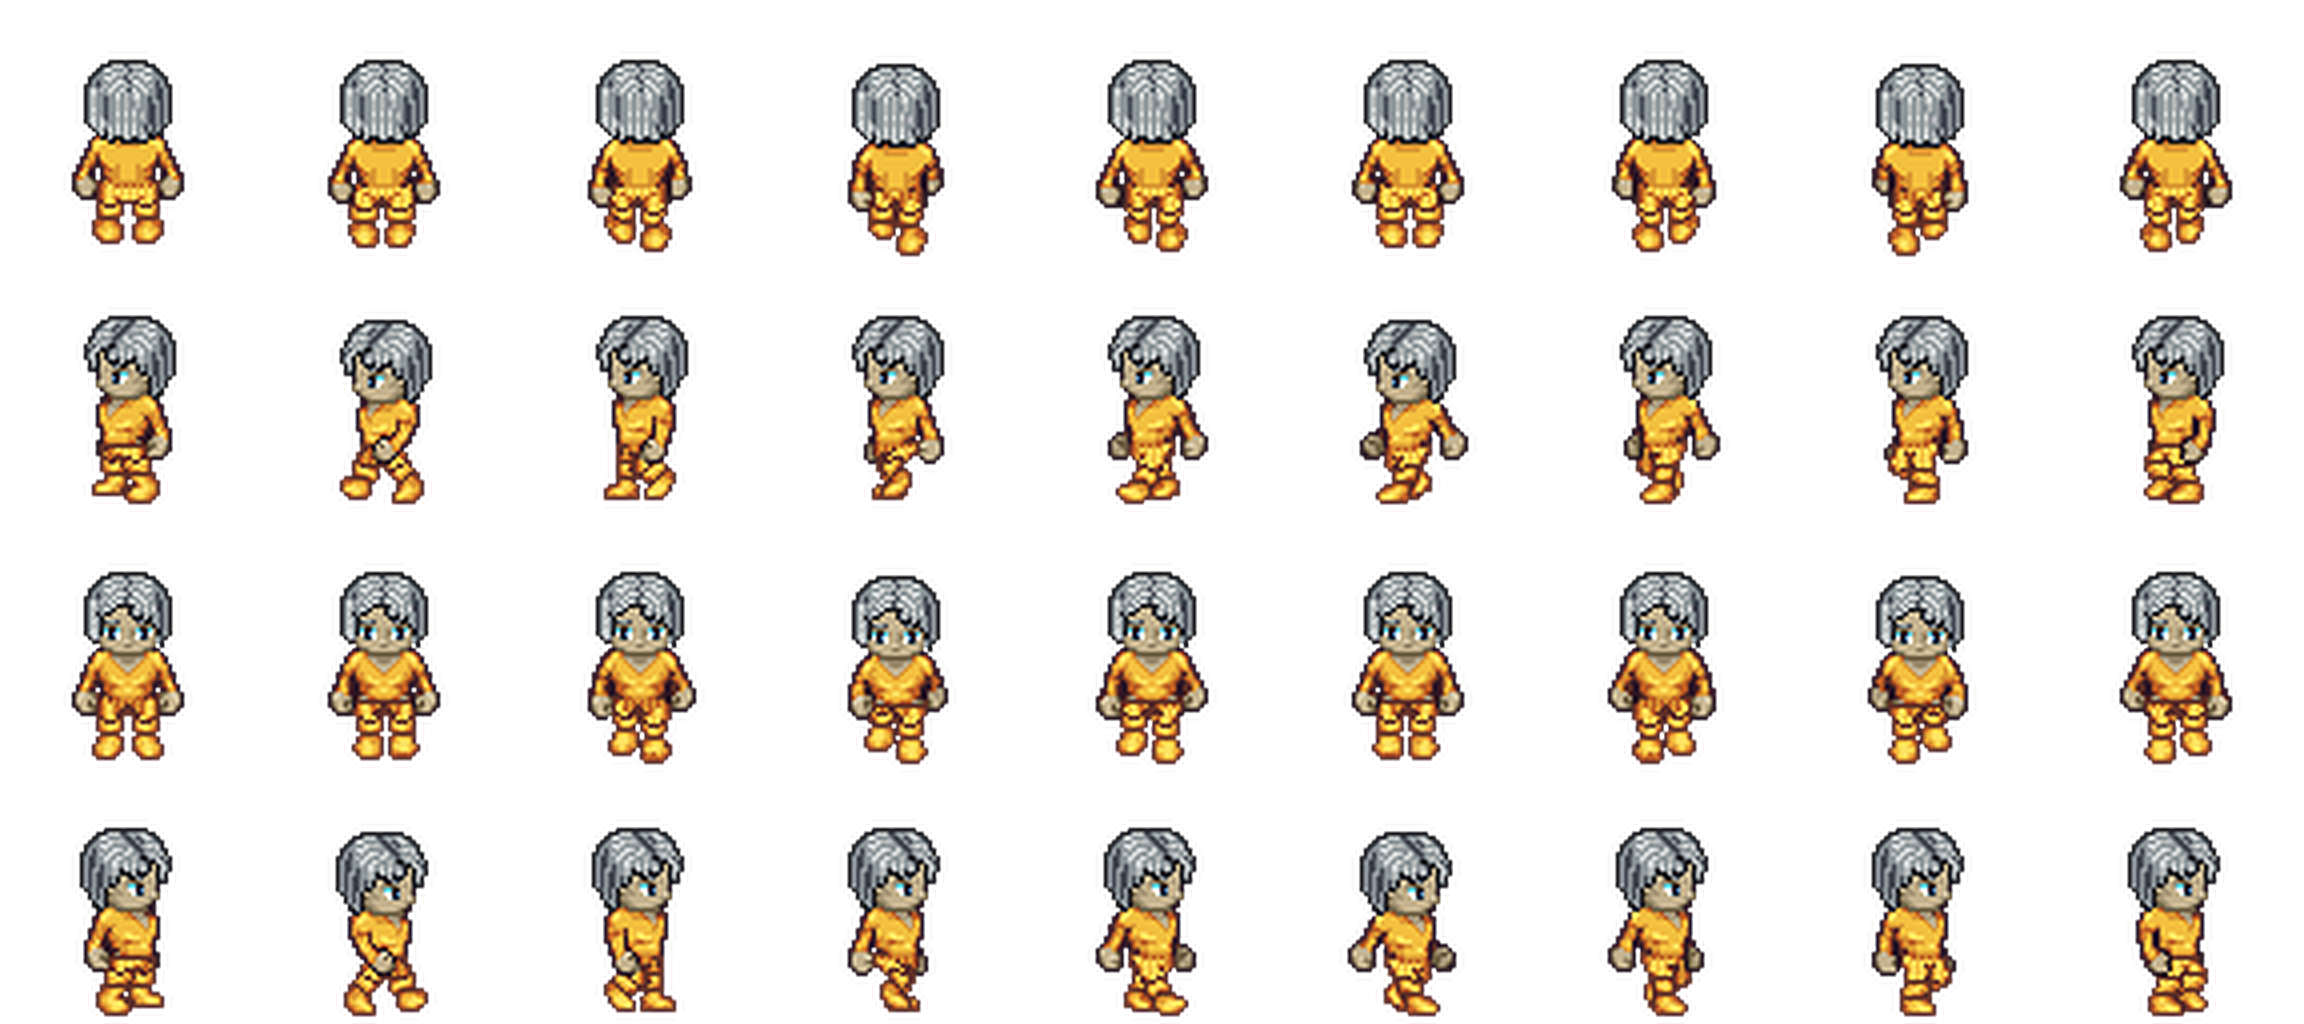
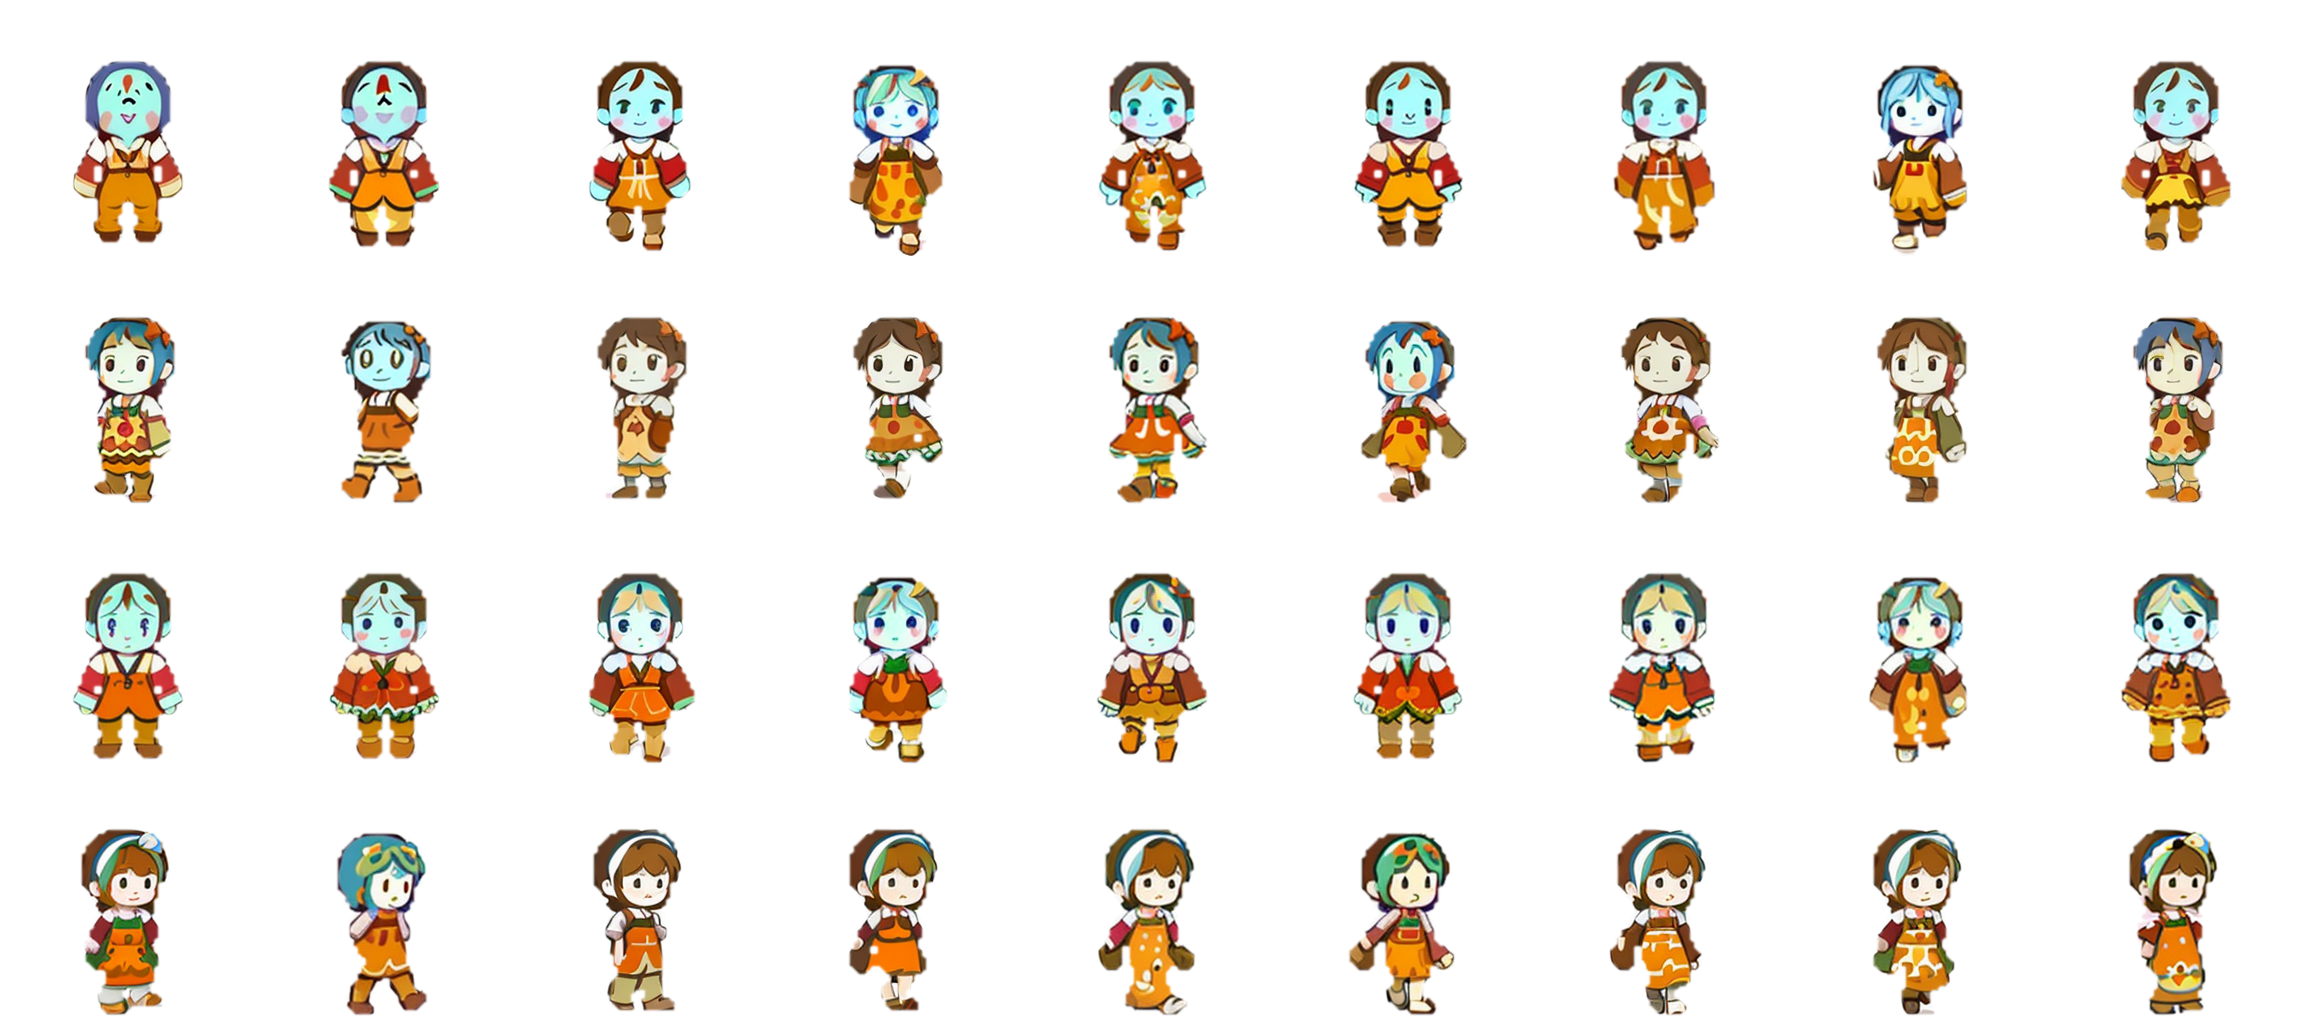
feat: 주민 8인 전원 고화질 페인티드 시트 완성 + 재스타일 배치 드라이버
- villager_7(바람): 첫 시드 스윕(424249~51)이 행별 drift σ 9.18로 게이트
  실패(프레임 5열 어두운 얼룩) → 시드 영역 재스윕(430007)으로 σ 6.03 PASS.
  14fcb22이 반입한 0~6번과 이어 8/8 전원 charstyle 산출로 교체 완료.
- tools/painted/paint_villagers.py: 베이스 LPC 합성(결정론) → assetgen
  core.charstyle img2img 위임 배치. 재개 판정은 painted.json 마커(png
  존재는 구 저해상 시트와 구분 안 됨 — 첫 실행 전원 스킵 사고 수정),
  게이트 실패도 산출물 기록 후 계속.
- .gitignore: 마커 사이드카 제외.

인게임 검증: 트렁크 릴리스+wasm-opt(-Os) 로컬 스모크 — 콘솔 에러 0,
페인티드 주민 렌더·줌 확인(Playwright swiftshader).

diff --git a/tools/painted/paint_villagers.py b/tools/painted/paint_villagers.py
@@ -1,0 +1,93 @@
+#!/usr/bin/env python3
+"""주민 시트 고화질 재스타일 배치 — 베이스 합성(이 repo) → charstyle(assetgen).
+
+계약(CLAUDE.md — 이 repo는 직접 그리지 않는다): LPC 부품 합성·리컬러는 여기서
+결정론적으로 하고, 페인티드 재스타일은 assetgen `core/charstyle.py`(Tier 2
+img2img + 게이트)에 위임한다. 산출물은 proto2d/assets/lpc/villager_N.png 에
+그대로 드롭인(해상만 2304×1024로 동일 — villagers.json 불변).
+
+사용:
+  python3 tools/painted/paint_villagers.py [--only 0,3] [--force] [--seed 424242]
+
+- 재개 지원: 출력이 이미 있으면 건너뛴다(--force로 재생성).
+- 게이트 FAIL이어도 산출물은 기록되고 배치는 계속 — 요약에서 표시.
+"""
+import argparse
+import json
+import os
+import subprocess
+import sys
+import tempfile
+
+HERE = os.path.dirname(os.path.abspath(__file__))
+ROOT = os.path.dirname(os.path.dirname(os.path.dirname(os.path.abspath(__file__))))
+ASSETGEN = os.path.join(os.path.dirname(ROOT), 'assetgen')
+LPC_OUT = os.path.join(ROOT, 'proto2d', 'assets', 'lpc')
+
+sys.path.insert(0, HERE)
+import gen_proto2d_assets as g  # noqa: E402
+
+BUCKETS = ['male', 'male', 'male', 'female', 'female', 'male', 'female', 'teen']
+PY = os.path.join(ASSETGEN, '.venv', 'bin', 'python')
+
+
+def compose_bases():
+    """gen_proto2d_assets 와 동일 결정론 시퀀스로 베이스 시트 8장(576×256)."""
+    import random
+    rng = random.Random(g.SEED)
+    lpc = g.load_tf_data()['LPC']
+    sheets = []
+    for name, bucket in zip(g.NAMES, BUCKETS):
+        sheets.append(g.compose_sheet(g.pick_layers(rng, lpc, bucket)))
+    return sheets
+
+
+def main():
+    ap = argparse.ArgumentParser()
+    ap.add_argument('--only', default='', help='대상 인덱스 쉼표 나열(예: 0,3)')
+    ap.add_argument('--force', action='store_true', help='있어도 재생성')
+    ap.add_argument('--seed', type=int, default=424242)
+    a = ap.parse_args()
+    only = {int(x) for x in a.only.split(',') if x.strip()} if a.only else None
+
+    tmp = tempfile.mkdtemp(prefix='tf-villpaint-')
+    bases = compose_bases()
+    fails = []
+    for i, base in enumerate(bases):
+        if only is not None and i not in only:
+            continue
+        out = os.path.join(LPC_OUT, f'villager_{i}.png')
+        marker = os.path.join(LPC_OUT, f'villager_{i}.painted.json')
+        # 재개 판정: 출력 png 존재만으론 안 된다(구 저해상 시트도 존재) —
+        # 이 파이프라인이 성공 표시로 남긴 마커 사이드카가 있어야 건너뜀.
+        if os.path.exists(marker) and not a.force:
+            print(f'[{i}] {g.NAMES[i]} — 페인티드 마커 있음, 건너뜀')
+            continue
+        base_png = os.path.join(tmp, f'base_{i}.png')
+        base.save(base_png)
+        print(f'[{i}] {g.NAMES[i]} 재스타일 중… (seed {a.seed + i})', flush=True)
+        r = subprocess.run(
+            [PY, '-m', 'core.charstyle', '--in', base_png, '--out', out,
+             '--seed', str(a.seed + i)],
+            cwd=ASSETGEN, capture_output=True, text=True)
+        tail = (r.stdout or '').strip().splitlines()[-3:] if r.stdout else []
+        for line in tail:
+            print('   ', line, flush=True)
+        if r.returncode == 0:
+            metrics = next((l for l in tail if l.strip().startswith('측정')), '')
+            open(marker, 'w').write(json.dumps(
+                {'villager': i, 'name': g.NAMES[i], 'seed': a.seed + i,
+                 'metrics': metrics.strip()}, ensure_ascii=False))
+        else:
+            fails.append((i, g.NAMES[i], tail))
+            if r.stderr:
+                print('    stderr:', r.stderr.strip().splitlines()[-1])
+
+    if fails:
+        print('게이트 실패:', fails)
+        raise SystemExit(1)
+    print('전원 완료 →', LPC_OUT)
+
+
+if __name__ == '__main__':
+    main()
